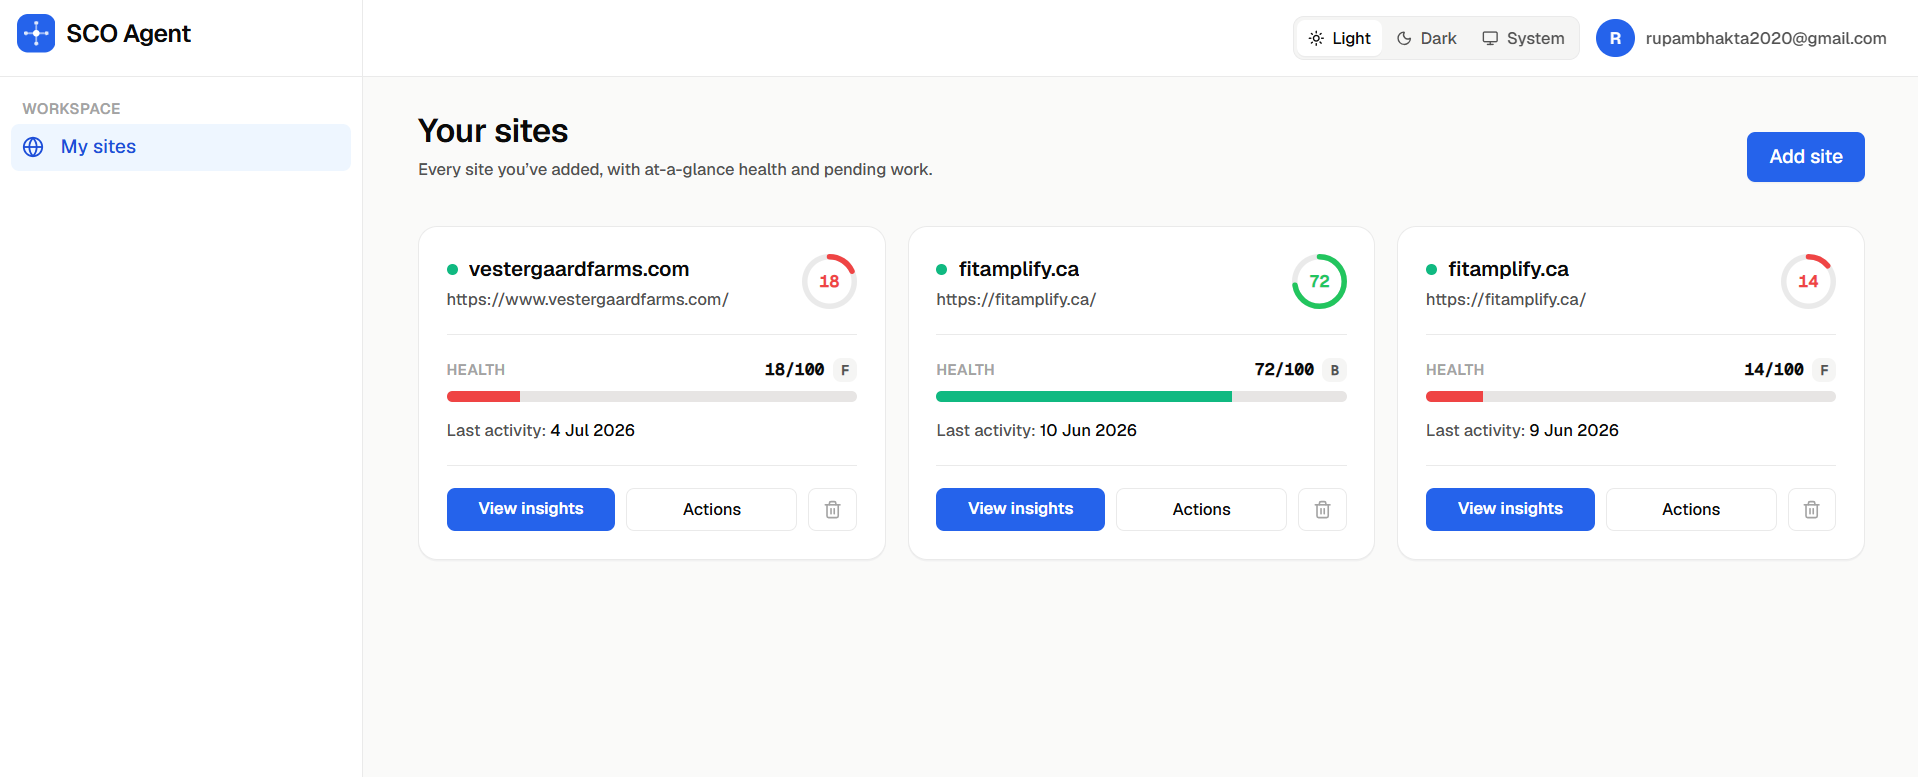
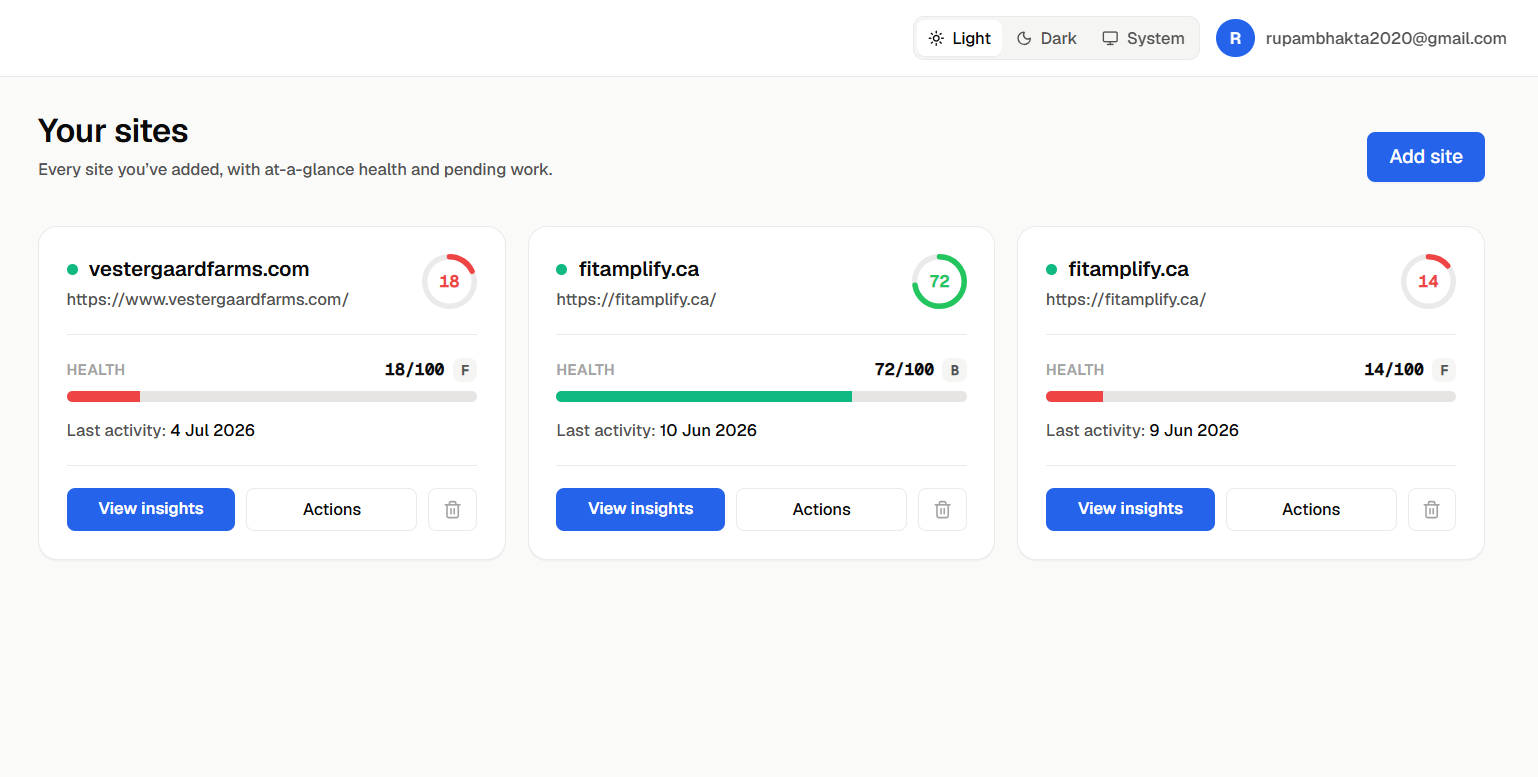
feat: add cover image and enhance media handling in Seowyn project

diff --git a/src/data/projects/seowyn.js b/src/data/projects/seowyn.js
@@ -2,6 +2,10 @@
 // Source: projects/Seowyn_Project_Documentation.docx
 // Rendered by pages/work/SeowynPage.jsx — this shape is specific to that page.
 
+// Imported so Vite fingerprints it and the build fails on a bad path.
+// `coverRatio` is the file's real aspect ratio, so nothing crops.
+import cover from '../../assets/seowyn/main.png'
+
 export default {
   slug: 'seowyn',
   title: 'Seowyn',
@@ -10,7 +14,9 @@ export default {
   status: 'LIVE',
   role: 'Design & full-stack engineering',
   tint: 'green',
-  cover: null, // TODO: /work/seowyn-cover.jpg
+  cover,
+  coverRatio: '1918/777',
+  coverCaption: 'Workspace — every site added, with at-a-glance health and pending work',
   links: { demo: 'http://187.77.19.74:8090/', github: null },
   tags: ['Next.js', 'FastAPI', 'Multi-agent AI', 'Celery + Redis', 'Playwright'],
 

diff --git a/src/pages/work/SeowynPage.jsx b/src/pages/work/SeowynPage.jsx
@@ -29,7 +29,13 @@ export default function SeowynPage({ next }) {
         </div>
 
         <Reveal className="mt-10">
-          <Media src={p.cover} ratio="16/9" tint={p.tint} caption={p.cover ? null : 'Run dashboard — agents working live'} rounded="rounded-3xl" />
+          <Media
+            src={p.cover}
+            ratio={p.coverRatio || '16/9'}
+            tint={p.tint}
+            caption={p.cover ? p.coverCaption : 'Run dashboard — agents working live'}
+            rounded="rounded-3xl"
+          />
         </Reveal>
 
         {/* Overview */}
